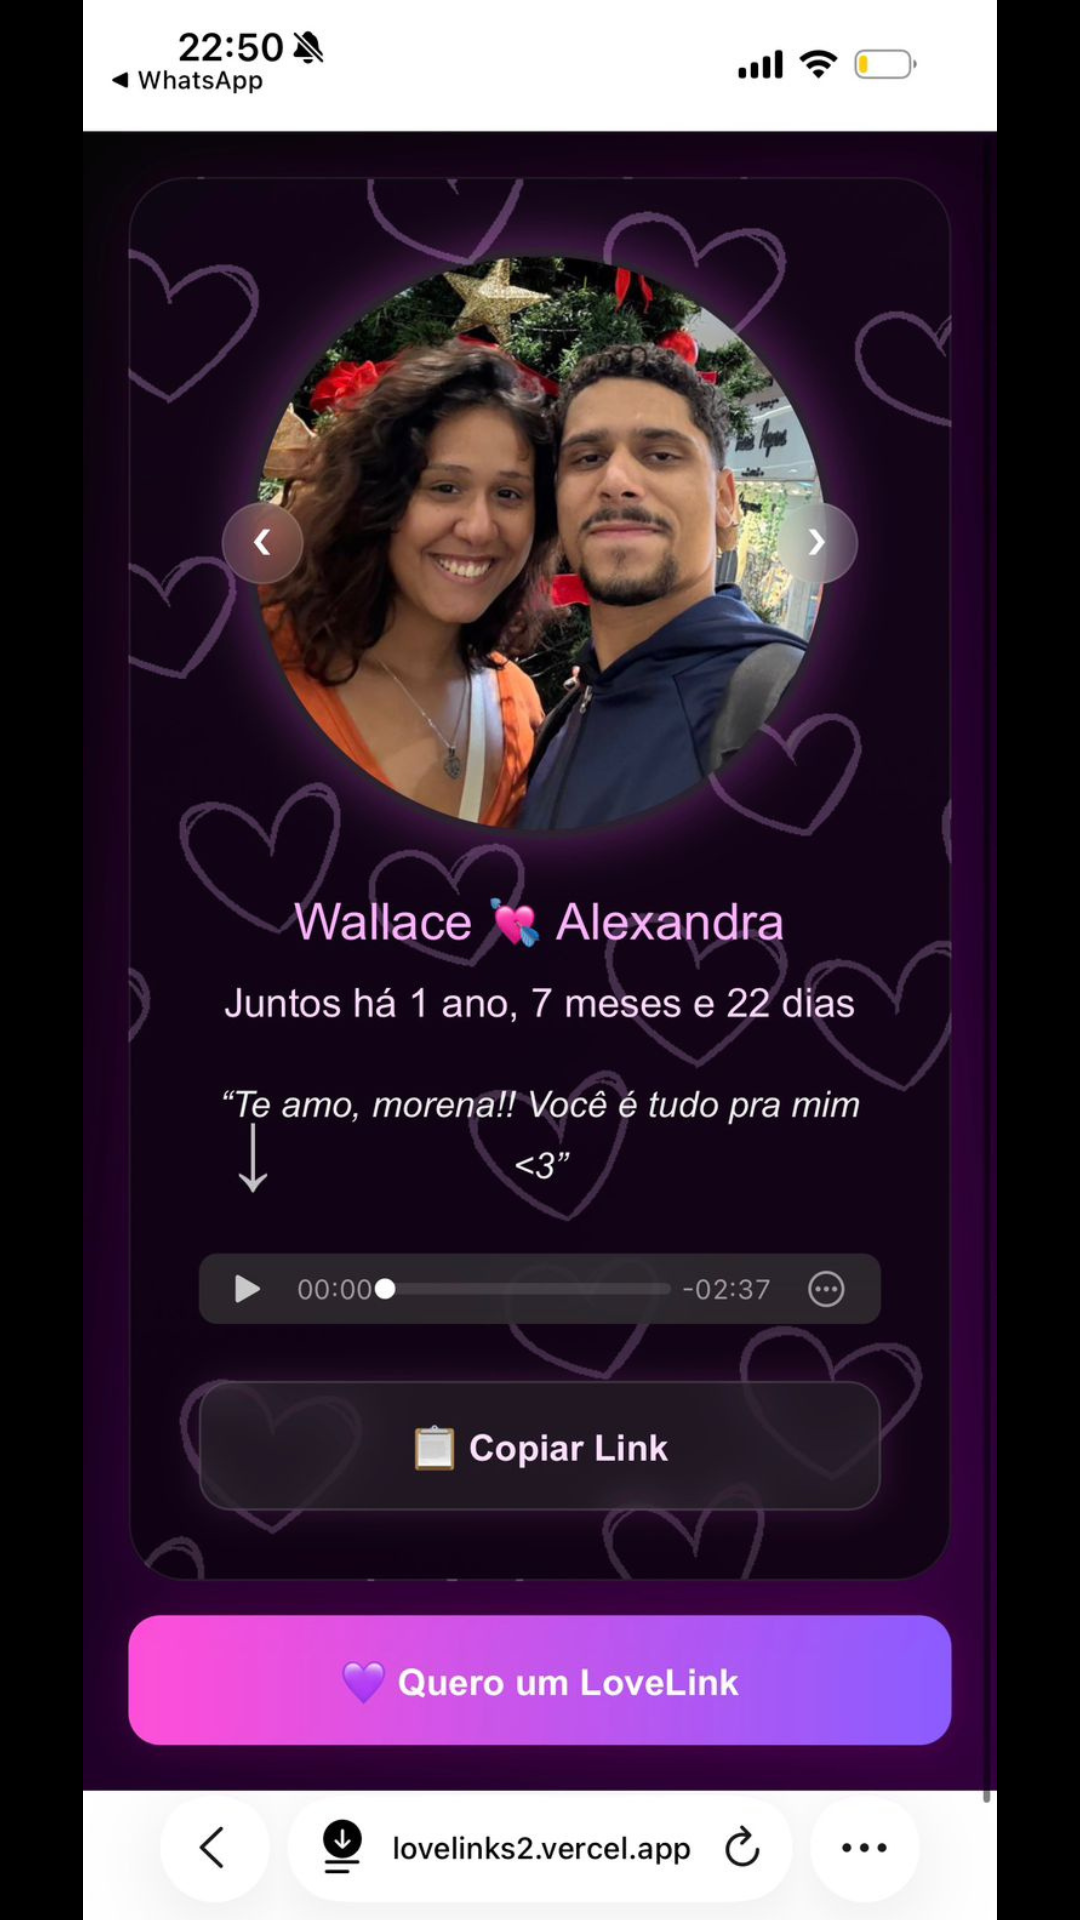
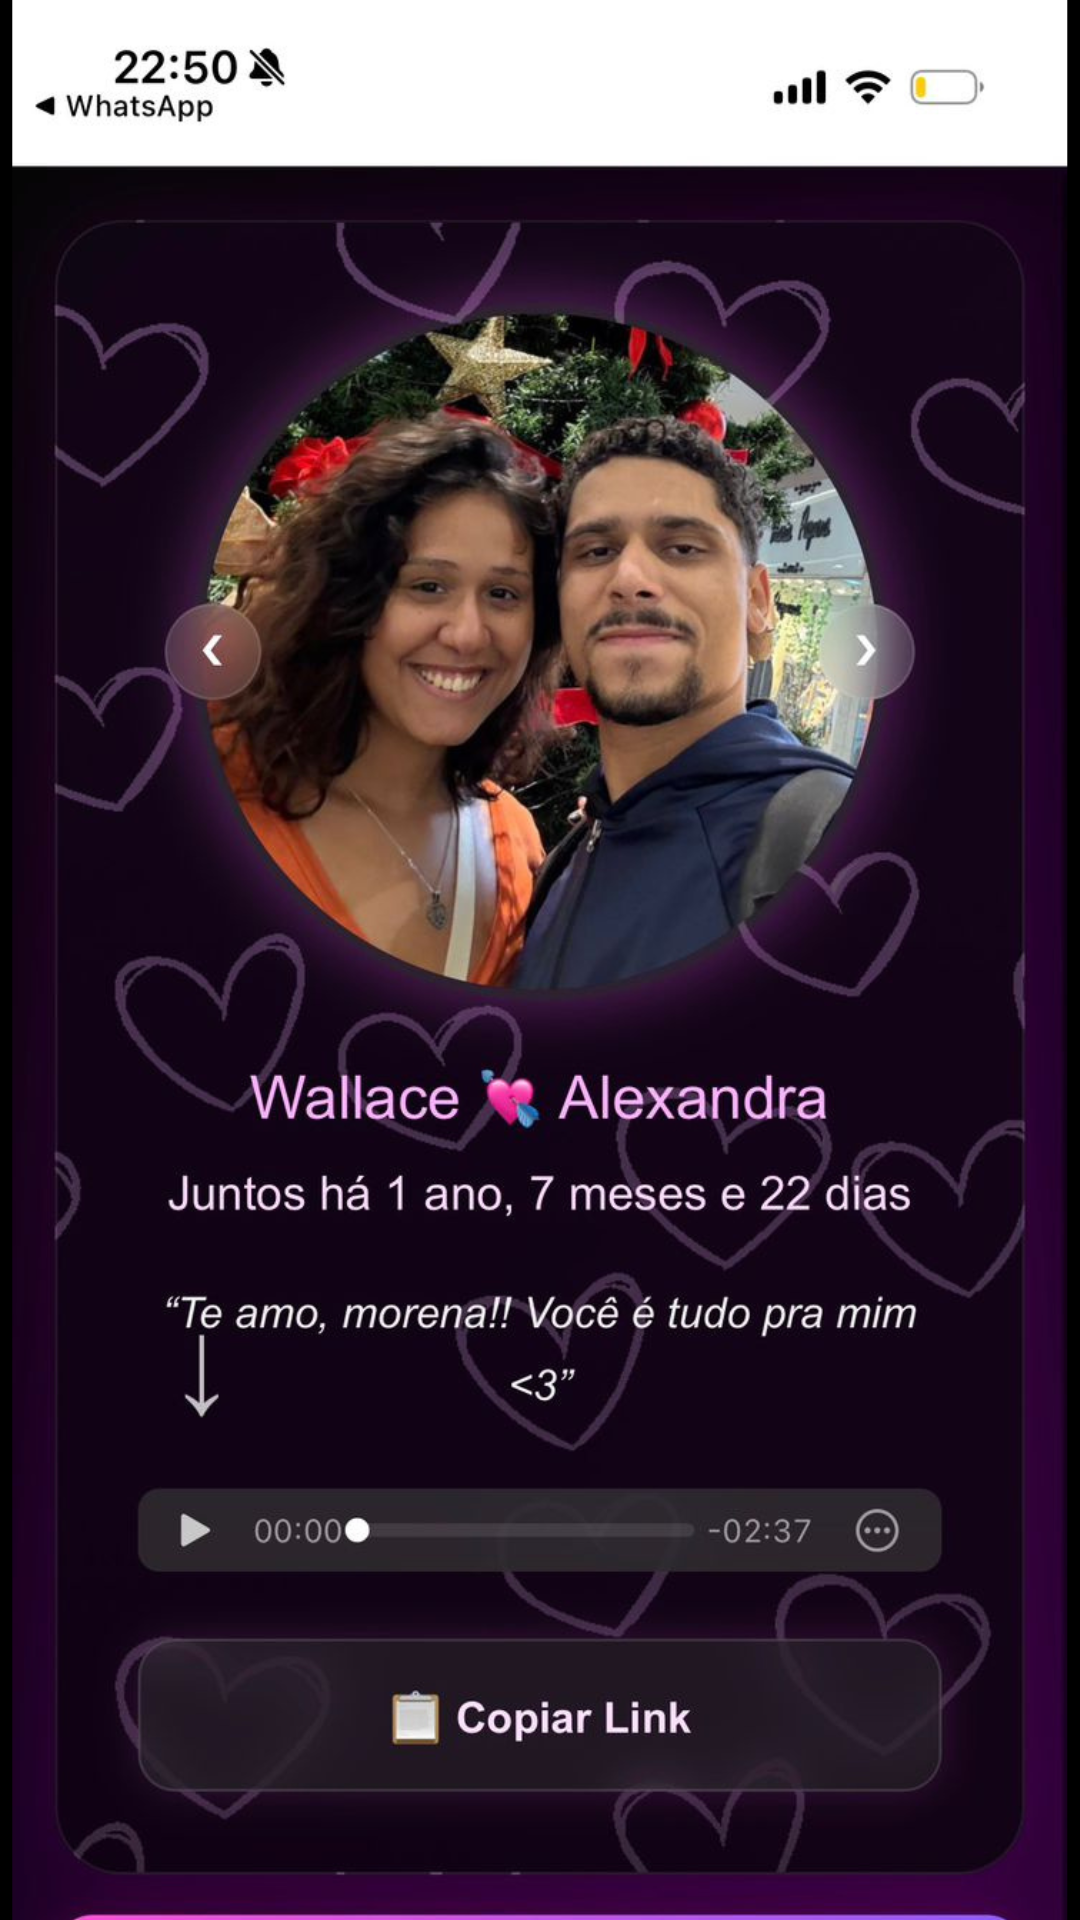
exlusao de um botao e print2 alterado

diff --git a/index.html b/index.html
@@ -858,13 +858,5 @@ carregarCasal();
 
 </script>
 
-<a
-    href="https://wa.me/5521976962190?text=Oi,%20quero%20um%20LoveLink%20💜"
-    target="_blank"
-    class="contact-btn"
->
-    💜 Quero um LoveLink
-</a>
-
 </body>
 </html>
